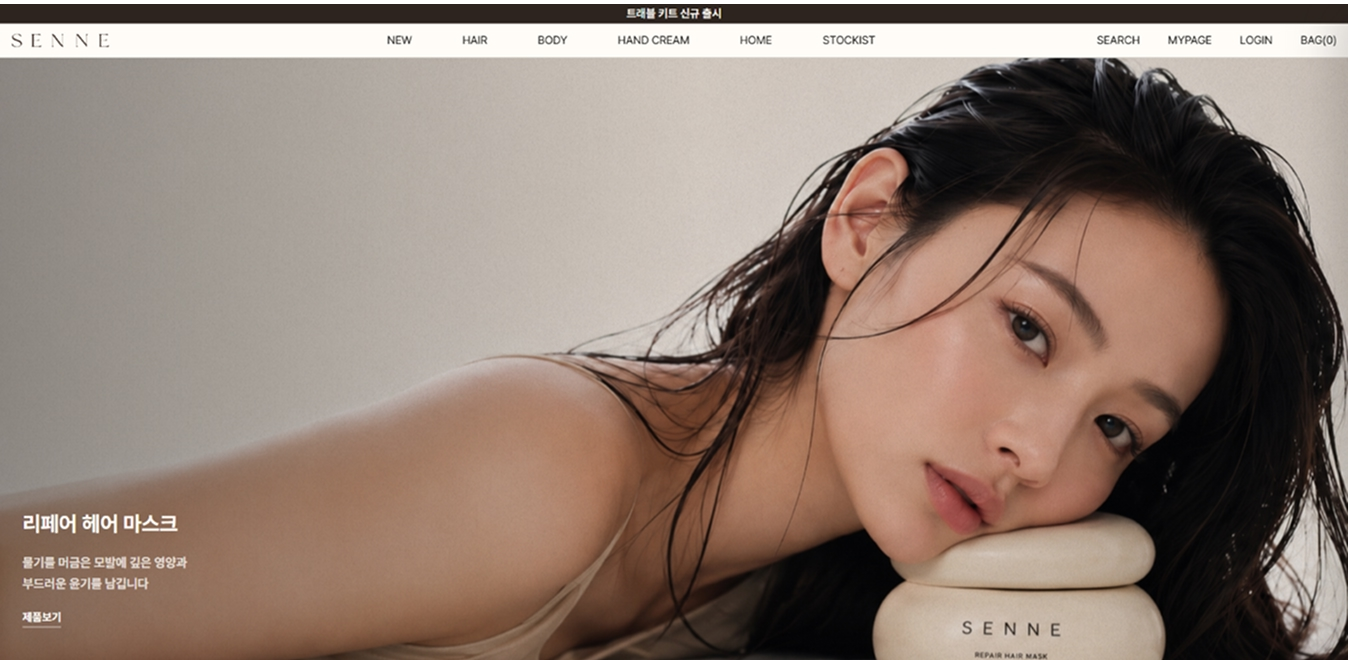
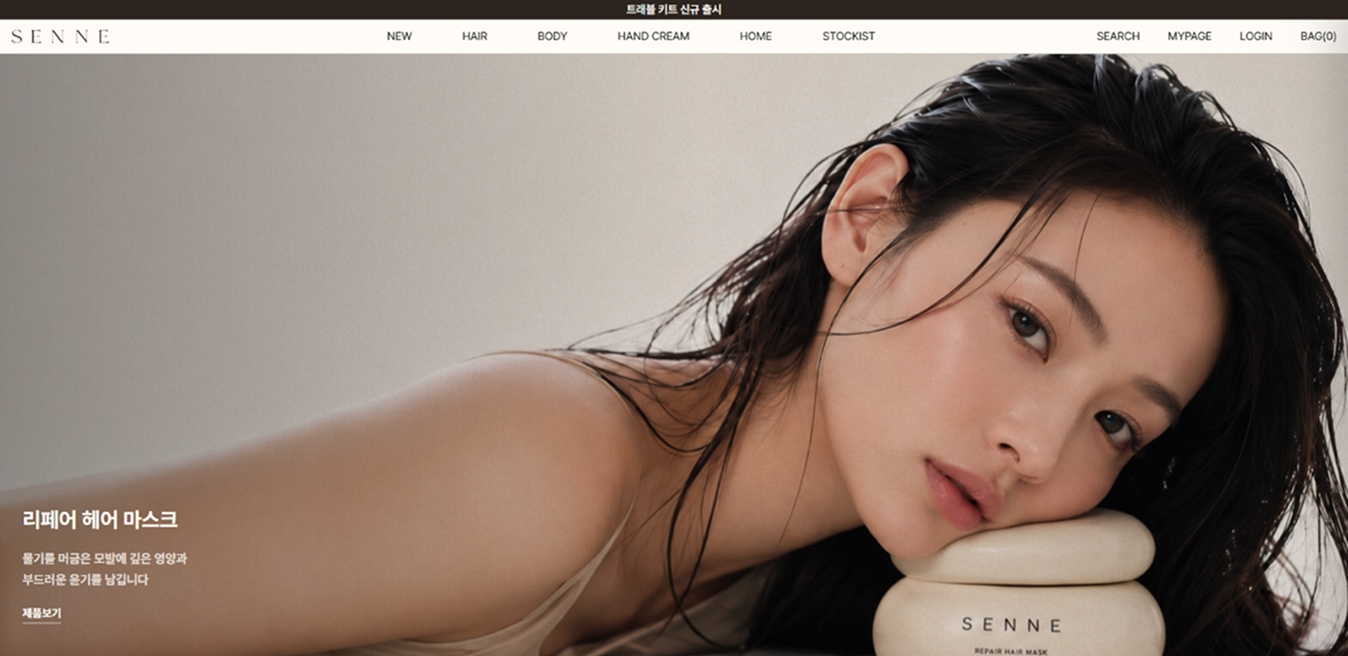
Sledding 케이스 문구 정리 + 스킬태그 실구현 기준 정확화
- BACKGROUND 헤드라인: '인디 게임의 첫인상을 더 매력적으로'
- KEY INTERACTION 02~06 라벨·헤드라인·설명 문구 교체
- 태그 검증(실제 sledding_game 코드 대조): 02 CSS Transition·Hover / 07 Keyboard·CSS Keyframes·Game-like
- senne case study hero 이미지 교체

diff --git a/index.html b/index.html
@@ -2344,7 +2344,7 @@
           <img class="cs-bg-frog cs-deco-rise" src="${frog}" alt="">
           <div class="cs-bg-head reveal">
             <span class="cs-bg-eyebrow">BACKGROUND</span>
-            <h3 class="cs-bg-title">Why Sledding Game?</h3>
+            <h3 class="cs-bg-title">인디 게임의 첫인상을 더 매력적으로</h3>
             <p class="cs-bg-desc">출시 5일 만에 100,000장 판매를 달성한 Steam 인디 게임의 매력을<br>웹에서도 자연스럽게 경험할 수 있도록 랜딩 페이지를<br>기획하고 제작했습니다.</p>
           </div>
           <div class="cs-bg-goals">
@@ -2422,12 +2422,12 @@
       const V = 'https://itsmauvy.github.io/myportfolio/assets/videos/';
       const pts = [
         { v: 'loading.mp4', rev: false, op: '', type: 'Loading Page', name: '로딩 화면', head: '게임이 시작되기 전, 기대감을 높이는 첫 경험', desc: '캐릭터 애니메이션을 활용해 대기 시간을 자연스럽게 연결하고,<br>게임의 분위기를 첫 화면부터 전달했습니다.', tags: ['CSS', 'GSAP'] },
-        { v: 'cta-frog.mp4', rev: true, op: 'object-position:5% center;', type: 'CTA Section', name: 'CTA 버튼 개구리', head: '버튼 위에 올라타는 개구리', desc: 'CTA 버튼에 호버하면 개구리가 버튼 위로 폴짝 뛰어올라,<br>클릭을 자연스럽게 유도하는 마이크로 인터랙션을 더했습니다.', tags: ['GSAP', 'Hover', 'back.out'] },
-        { v: 'scroll-frog.mp4', rev: false, op: '', type: 'Video Section', name: '스크롤 프로그', head: '스크롤에 맞춰 비탈을 내려오는 개구리', desc: '스크롤 진행도에 1:1로 연동해 개구리가 비탈을 따라 미끄러지며,<br>게임의 썰매 활강 감각을 웹으로 옮겼습니다.', tags: ['GSAP ScrollTrigger', 'Scrub'] },
-        { v: 'frog-mole.mp4', rev: true, op: 'object-position:100% center;', type: 'Intro Section', name: '게임 소개 카드', head: '마우스를 따라 튀어나오고 떨어지는 개구리', desc: '마우스가 닿는 모서리에서 개구리가 톡 튀어나오고,<br>빠져나가는 방향으로 쏙 떨어지듯 사라지는 두더지식 위트를 더했습니다.', tags: ['GSAP', 'Hover', 'back.out'] },
-        { v: 'frog-snow-attack.mp4', rev: false, op: '', type: 'Character Section', name: '눈덩이 맞기', head: '클릭하면 팡 터지는 눈덩이', desc: '캐릭터 영역을 클릭하면 그 자리에 눈덩이가 팡 터지며,<br>게임 속 눈싸움의 재미를 인터랙션으로 옮겼습니다.', tags: ['GSAP', 'Click', 'back.out'] },
-        { v: 'frog-scrollbar.mp4', rev: true, op: '', type: 'Media Gallery', name: 'frogback 스크롤바', head: '개구리 썰매로 보는 갤러리 진행도', desc: '갤러리를 넘길 때마다<br>개구리 썰매가 눈길 트랙을 따라 이동하며 진행도를 보여주고,<br>트랙을 직접 끌어 원하는 장면으로 미끄러질 수 있습니다.', tags: ['GSAP', 'Custom Scrollbar', 'power3.out'] },
-        { v: 'news-frog.mp4', rev: false, op: '', type: 'News Section', name: '방향키 내비게이션', head: '방향키로 카드 사이를 뛰어다니는 개구리', desc: '뉴스 섹션이 화면에 들어오면<br>←→ 방향키로 개구리가 카드 사이를 폴짝 건너뛰고,<br>↑↓ 키로 점프·착지하는 작은 게임성을 더했습니다.', tags: ['GSAP', 'Keyboard', 'Game-like'] },
+        { v: 'cta-frog.mp4', rev: true, op: 'object-position:5% center;', type: 'CTA Section', name: 'CTA 버튼', head: '호버 시 올라오는 개구리', desc: 'CTA 버튼에 호버하면 개구리 캐릭터가 버튼 위로 올라옵니다.<br>간단한 모션으로 버튼에 재미와 클릭 유도를 더했습니다.', tags: ['CSS Transition', 'Hover'] },
+        { v: 'scroll-frog.mp4', rev: false, op: '', type: 'Video Section', name: '스크롤 모션', head: '스크롤하면 내려오는 개구리', desc: '스크롤하면 개구리 캐릭터가 비탈을 따라 내려옵니다.<br>마치 썰매를 타고 내려가는 것처럼 보여서, 게임의 분위기를<br>더 재미있게 느낄 수 있도록 만들었습니다.', tags: ['GSAP ScrollTrigger', 'Scrub'] },
+        { v: 'frog-mole.mp4', rev: true, op: 'object-position:100% center;', type: 'Intro Section', name: '게임 소개 카드', head: '톡 튀어나왔다가 쏙 사라지는 개구리', desc: '마우스가 닿는 모서리에서 개구리가 톡 튀어나오고,<br>빠져나가는 방향으로 쏙 사라지도록 구현했습니다.<br>단순한 카드 hover에 개구리의 장난스러운 움직임을 더했습니다.', tags: ['GSAP', 'Hover', 'back.out'] },
+        { v: 'frog-snow-attack.mp4', rev: false, op: '', type: 'Character Section', name: '캐릭터 클릭 모션', head: '클릭한 곳에 팡 터지는 눈덩이', desc: '캐릭터 영역을 클릭하면 해당 위치에 눈덩이 효과가 나타납니다.<br>클릭 동작이 게임 속 눈싸움 장면처럼 보이도록 표현했습니다.', tags: ['GSAP', 'Click', 'back.out'] },
+        { v: 'frog-scrollbar.mp4', rev: true, op: '', type: 'Media Gallery', name: '개구리 스크롤바', head: '개구리 썰매로 보는 갤러리 진행도', desc: '갤러리를 넘기면 개구리 썰매가 눈길 트랙을 따라 이동합니다.', tags: ['GSAP', 'Custom Scrollbar', 'power3.out'] },
+        { v: 'news-frog.mp4', rev: false, op: '', type: 'News Section', name: '방향키 내비게이션', head: '방향키로 카드 사이를 뛰어다니는 개구리', desc: '뉴스 섹션이 화면에 들어오면<br>←→ 방향키로 개구리가 카드 사이를 폴짝 건너뛰고,<br>↑↓ 키로 점프·착지하는 작은 게임성을 더했습니다.', tags: ['Keyboard', 'CSS Keyframes', 'Game-like'] },
       ];
       const points = pts.map((p, i) => `
         <div class="ki__point${p.rev ? ' ki__point--reverse' : ''}">
